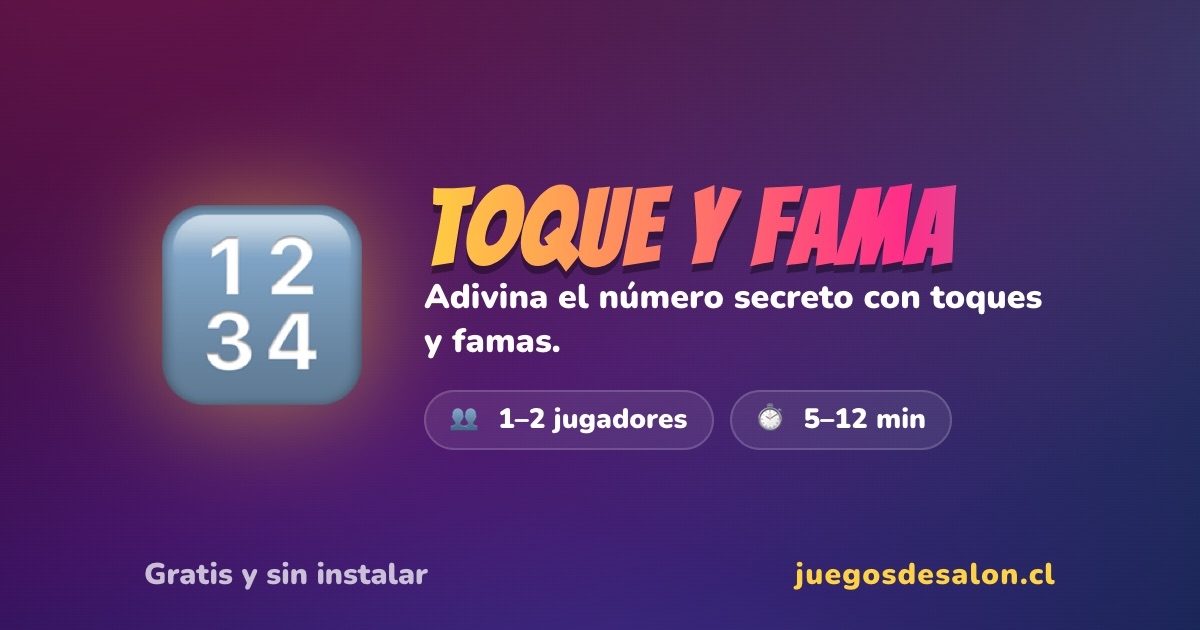
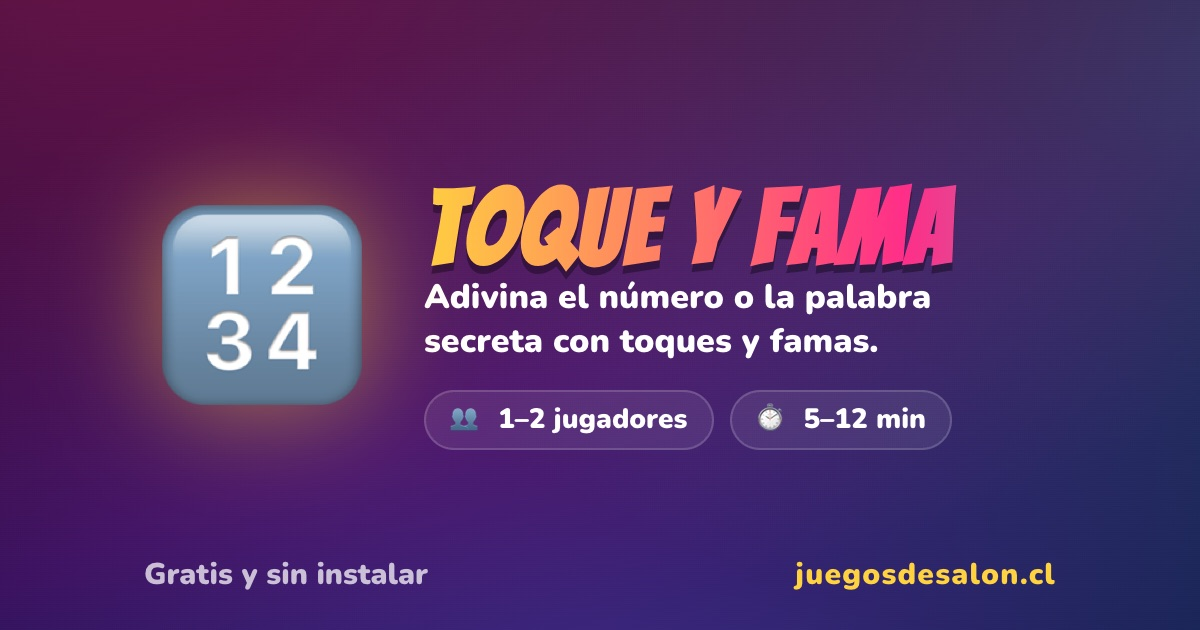
Toque y Fama: its tagline names the number and the word everywhere, share card regenerated

Changed region(s): [[0.3392, 0.4524, 0.8633, 0.573]]

diff --git a/public/toque-y-fama/index.html b/public/toque-y-fama/index.html
@@ -6,27 +6,27 @@
   <title>Toque y Fama 🔢 · Juegos de Salón</title>
   <!-- Bridge page (D-192): this route moved to /bulls-and-cows/. Generated by node tools/release/og.mjs cards: not edited by hand. -->
   <!-- generated: og · rewritten by node tools/release/og.mjs cards -->
-  <meta name="description" content="Adivina el número secreto con toques y famas. 1–2 jugadores, 5–12 min. Gratis, sin instalar y sin cuenta.">
+  <meta name="description" content="Adivina el número o la palabra secreta con toques y famas. 1–2 jugadores, 5–12 min. Gratis, sin instalar y sin cuenta.">
   <link rel="canonical" href="https://juegosdesalon.cl/bulls-and-cows/">
   <meta property="og:type" content="website">
   <meta property="og:site_name" content="Juegos de Salón">
   <meta property="og:url" content="https://juegosdesalon.cl/bulls-and-cows/">
   <meta property="og:title" content="Toque y Fama 🔢 · Juegos de Salón">
-  <meta property="og:description" content="Adivina el número secreto con toques y famas. 1–2 jugadores, 5–12 min. Gratis, sin instalar y sin cuenta.">
+  <meta property="og:description" content="Adivina el número o la palabra secreta con toques y famas. 1–2 jugadores, 5–12 min. Gratis, sin instalar y sin cuenta.">
   <meta property="og:image" content="https://juegosdesalon.cl/assets/og/toque-y-fama.jpg">
   <meta property="og:image:type" content="image/jpeg">
   <meta property="og:image:width" content="1200">
   <meta property="og:image:height" content="630">
-  <meta property="og:image:alt" content="Toque y Fama: Adivina el número secreto con toques y famas.">
+  <meta property="og:image:alt" content="Toque y Fama: Adivina el número o la palabra secreta con toques y famas.">
   <meta property="og:locale" content="es_CL">
   <meta property="og:locale:alternate" content="en_US">
   <meta property="og:locale:alternate" content="pt_BR">
   <meta property="og:locale:alternate" content="de_DE">
   <meta name="twitter:card" content="summary_large_image">
   <meta name="twitter:title" content="Toque y Fama 🔢 · Juegos de Salón">
-  <meta name="twitter:description" content="Adivina el número secreto con toques y famas. 1–2 jugadores, 5–12 min. Gratis, sin instalar y sin cuenta.">
+  <meta name="twitter:description" content="Adivina el número o la palabra secreta con toques y famas. 1–2 jugadores, 5–12 min. Gratis, sin instalar y sin cuenta.">
   <meta name="twitter:image" content="https://juegosdesalon.cl/assets/og/toque-y-fama.jpg">
-  <meta name="twitter:image:alt" content="Toque y Fama: Adivina el número secreto con toques y famas.">
+  <meta name="twitter:image:alt" content="Toque y Fama: Adivina el número o la palabra secreta con toques y famas.">
   <!-- /generated -->
   <script>try { if (sessionStorage.getItem('juegos-de-salon:ref') === null) sessionStorage.setItem('juegos-de-salon:ref', document.referrer); } catch (e) {} location.replace('../bulls-and-cows/' + location.search + location.hash);</script>
   <noscript><meta http-equiv="refresh" content="0; url=../bulls-and-cows/"></noscript>

diff --git a/public/bulls-and-cows/index.html b/public/bulls-and-cows/index.html
@@ -26,27 +26,27 @@
     })();
   </script>
   <!-- generated: og · rewritten by node tools/release/og.mjs cards -->
-  <meta name="description" content="Adivina el número secreto con toques y famas. 1–2 jugadores, 5–12 min. Gratis, sin instalar y sin cuenta.">
+  <meta name="description" content="Adivina el número o la palabra secreta con toques y famas. 1–2 jugadores, 5–12 min. Gratis, sin instalar y sin cuenta.">
   <link rel="canonical" href="https://juegosdesalon.cl/bulls-and-cows/">
   <meta property="og:type" content="website">
   <meta property="og:site_name" content="Juegos de Salón">
   <meta property="og:url" content="https://juegosdesalon.cl/bulls-and-cows/">
   <meta property="og:title" content="Toque y Fama 🔢 · Juegos de Salón">
-  <meta property="og:description" content="Adivina el número secreto con toques y famas. 1–2 jugadores, 5–12 min. Gratis, sin instalar y sin cuenta.">
+  <meta property="og:description" content="Adivina el número o la palabra secreta con toques y famas. 1–2 jugadores, 5–12 min. Gratis, sin instalar y sin cuenta.">
   <meta property="og:image" content="https://juegosdesalon.cl/assets/og/toque-y-fama.jpg">
   <meta property="og:image:type" content="image/jpeg">
   <meta property="og:image:width" content="1200">
   <meta property="og:image:height" content="630">
-  <meta property="og:image:alt" content="Toque y Fama: Adivina el número secreto con toques y famas.">
+  <meta property="og:image:alt" content="Toque y Fama: Adivina el número o la palabra secreta con toques y famas.">
   <meta property="og:locale" content="es_CL">
   <meta property="og:locale:alternate" content="en_US">
   <meta property="og:locale:alternate" content="pt_BR">
   <meta property="og:locale:alternate" content="de_DE">
   <meta name="twitter:card" content="summary_large_image">
   <meta name="twitter:title" content="Toque y Fama 🔢 · Juegos de Salón">
-  <meta name="twitter:description" content="Adivina el número secreto con toques y famas. 1–2 jugadores, 5–12 min. Gratis, sin instalar y sin cuenta.">
+  <meta name="twitter:description" content="Adivina el número o la palabra secreta con toques y famas. 1–2 jugadores, 5–12 min. Gratis, sin instalar y sin cuenta.">
   <meta name="twitter:image" content="https://juegosdesalon.cl/assets/og/toque-y-fama.jpg">
-  <meta name="twitter:image:alt" content="Toque y Fama: Adivina el número secreto con toques y famas.">
+  <meta name="twitter:image:alt" content="Toque y Fama: Adivina el número o la palabra secreta con toques y famas.">
   <!-- /generated -->
   <link rel="manifest" href="../manifest.webmanifest">
   <script>

diff --git a/public/assets/js/games.js b/public/assets/js/games.js
@@ -46,9 +46,8 @@ export const GAMES = [
     tipos: ['logic'],
     emoji: '🔢',
     name: { es: 'Toque y Fama', en: 'Bulls and Cows', pt: 'Toque e Fama', de: 'Bullen und Kühe' },
-    tagline: { es: 'Adivina el número secreto con toques y famas.', en: 'Crack the secret number with bulls and cows.', pt: 'Descubra o número secreto com toques e famas.', de: 'Knack die Geheimzahl mit Bullen und Kühen.' },
-    // Its home card also holds 🔤 Palabra (#767): the home page shows this tagline, which names both
-    taglineLab: { es: 'Adivina el número o la palabra secreta con toques y famas.', en: 'Crack the secret number or word with bulls and cows.', pt: 'Descubra o número ou a palavra secreta com toques e famas.', de: 'Knack die Geheimzahl oder das geheime Wort mit Bullen und Kühen.' },
+    // Its card also holds 🔤 Palabra (#767), so the tagline names both
+    tagline: { es: 'Adivina el número o la palabra secreta con toques y famas.', en: 'Crack the secret number or word with bulls and cows.', pt: 'Descubra o número ou a palavra secreta com toques e famas.', de: 'Knack die Geheimzahl oder das geheime Wort mit Bullen und Kühen.' },
     players: '1–2',
     duration: '5–12',
     jugadas: ['guess'],

diff --git a/public/index.html b/public/index.html
@@ -642,8 +642,6 @@
     {
       const i = tarjetas.findIndex(t => t.g.id === 'letras');
       if (i >= 0) { tarjetas[i].caja.remove(); tarjetas.splice(i, 1); }
-      const tyf = tarjetas.find(t => t.g.id === 'toque-y-fama');
-      if (tyf?.g.taglineLab) tyf.card.querySelector('.tag').textContent = pickLang(tyf.g.taglineLab, lang);
     }
 
     // Juego al azar (D-188): always from every game on the home page, whatever filter is on; only

diff --git a/docs/REQUERIMIENTOS.md b/docs/REQUERIMIENTOS.md
@@ -82,7 +82,7 @@ Los IDs no se reusan: un requerimiento que cambia conserva su ID y su texto se a
 | RP-72 | **☕ Buy me a coffee**, in the lab (the owner's request): voluntary support through a Stripe Payment Link, with no backend; always in the home page footer beside 💬 Suggestions and comments (both as outlined buttons in a two-column grid), and at the end of a finished game from the device's 6th game, at most once a week and never on the same ending as the inbox; a support page (`/labs/support/`) that says the games stay free; each step counted in the day's stats. Until the payment link is set, the button simulates the payment (D-448). | ✅ D-448 (in the lab); for every player since PR `support-public` (the version is set on merge, D-300) |
 | RP-73 | **☕ Invítame a un café as a card over the page** (the owner's request): instead of a page of its own, the footer link and the end-of-game link open a sheet from the bottom like the share sheet, short enough to fit a small phone; Stripe returns to the home page with `?support=thanks`, which opens the thank-you as the same sheet (D-449). | ✅ D-449; for every player since PR `support-public` (the version is set on merge, D-300) |
 | RP-74 | **Rankings: Tus partidas folded** (a player's email, #783): on the Rankings page the list of how many times you played each game comes closed, with the total in its title, so the rankings show first. Tried in the lab (D-409), then for every player; its lab card is in La Bodega, marked 🚀 Lanzado. | ✅ |
-| RP-75 | **Toque y Fama: one home card** (a player's email, #767): 🔤 Palabra has no card of its own on the home page; Toque y Fama's card says "the number or the word" (`taglineLab`) and 🔤 Palabra is a mode inside the game, beside the others, opening `/word/`. Tried in the lab (D-409), then for every player; its lab card is in La Bodega, marked 🚀 Lanzado. | ✅ |
+| RP-75 | **Toque y Fama: one home card** (a player's email, #767): 🔤 Palabra has no card of its own on the home page; Toque y Fama's card says "the number or the word" and 🔤 Palabra is a mode inside the game, beside the others, opening `/word/`. Tried in the lab (D-409), then for every player; its lab card is in La Bodega, marked 🚀 Lanzado. | ✅ |
 
 ## Cuarto Rey (CR)
 

diff --git a/docs/games/bulls-and-cows.md b/docs/games/bulls-and-cows.md
@@ -113,7 +113,7 @@ the keypad says it («Toca una casilla para elegir dónde va la cifra…»). Che
 `tools/e2e/bulls-and-cows/choose-box.mjs`.
 
 **One card on the home page** (#767, RP-75): 🔤 Palabra (`/word/`) no longer has its own card on the
-home page; Toque y Fama's card says "the number or the word" (its `taglineLab`), and on the game's
+home page; Toque y Fama's card says "the number or the word", and on the game's
 home 🔤 Palabra is a fourth mode under Local, Online and Solo that opens `/word/`. Tried in the lab
 first (D-409), now for every player; its lab card is in La Bodega, marked 🚀 Lanzado.
 
